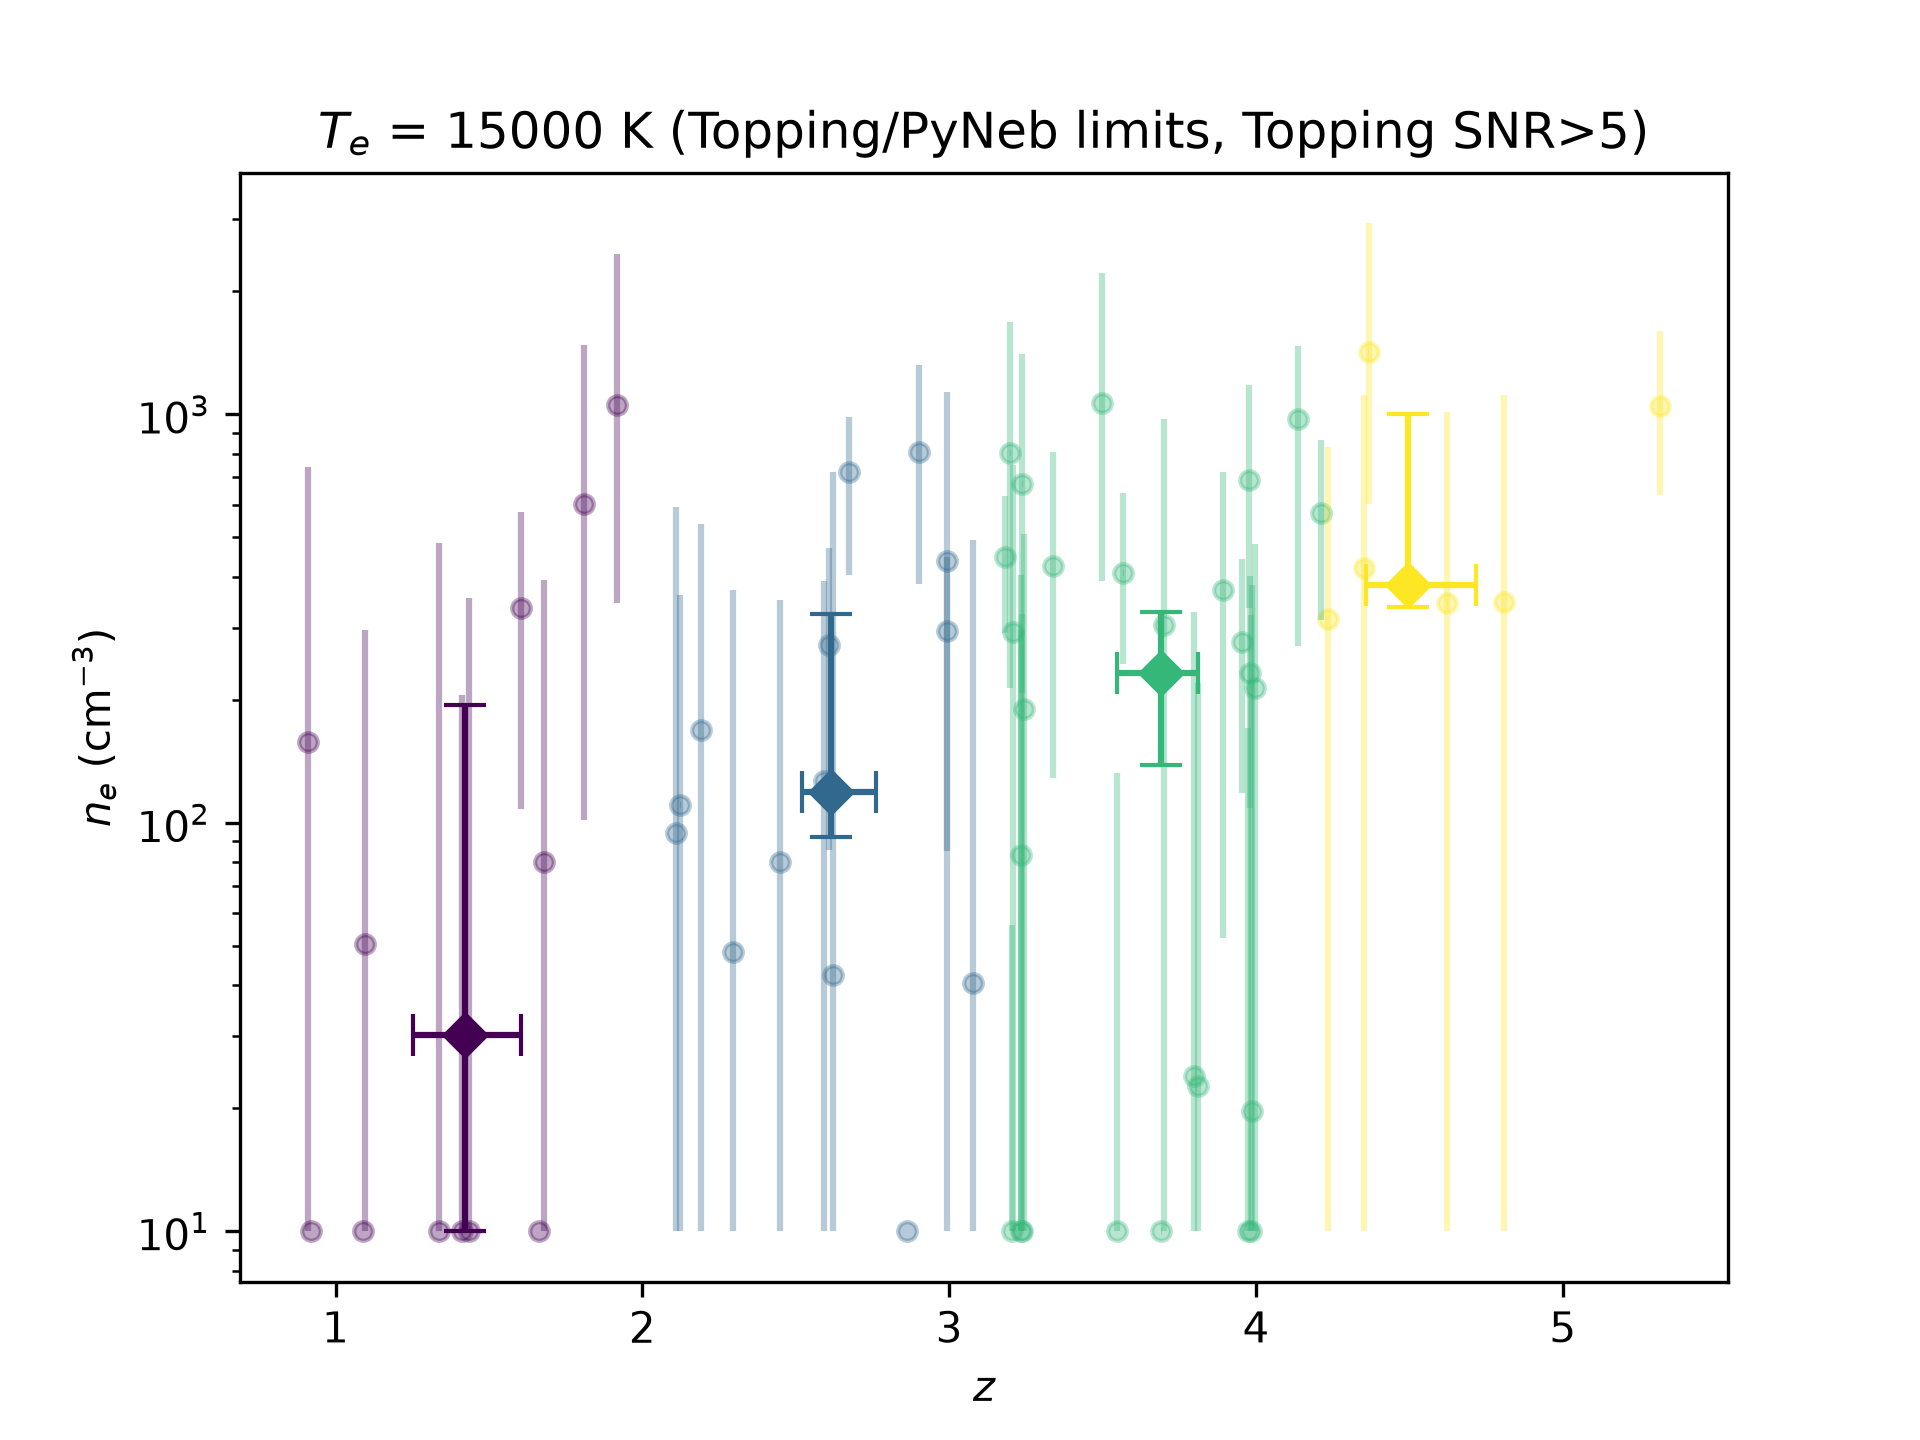
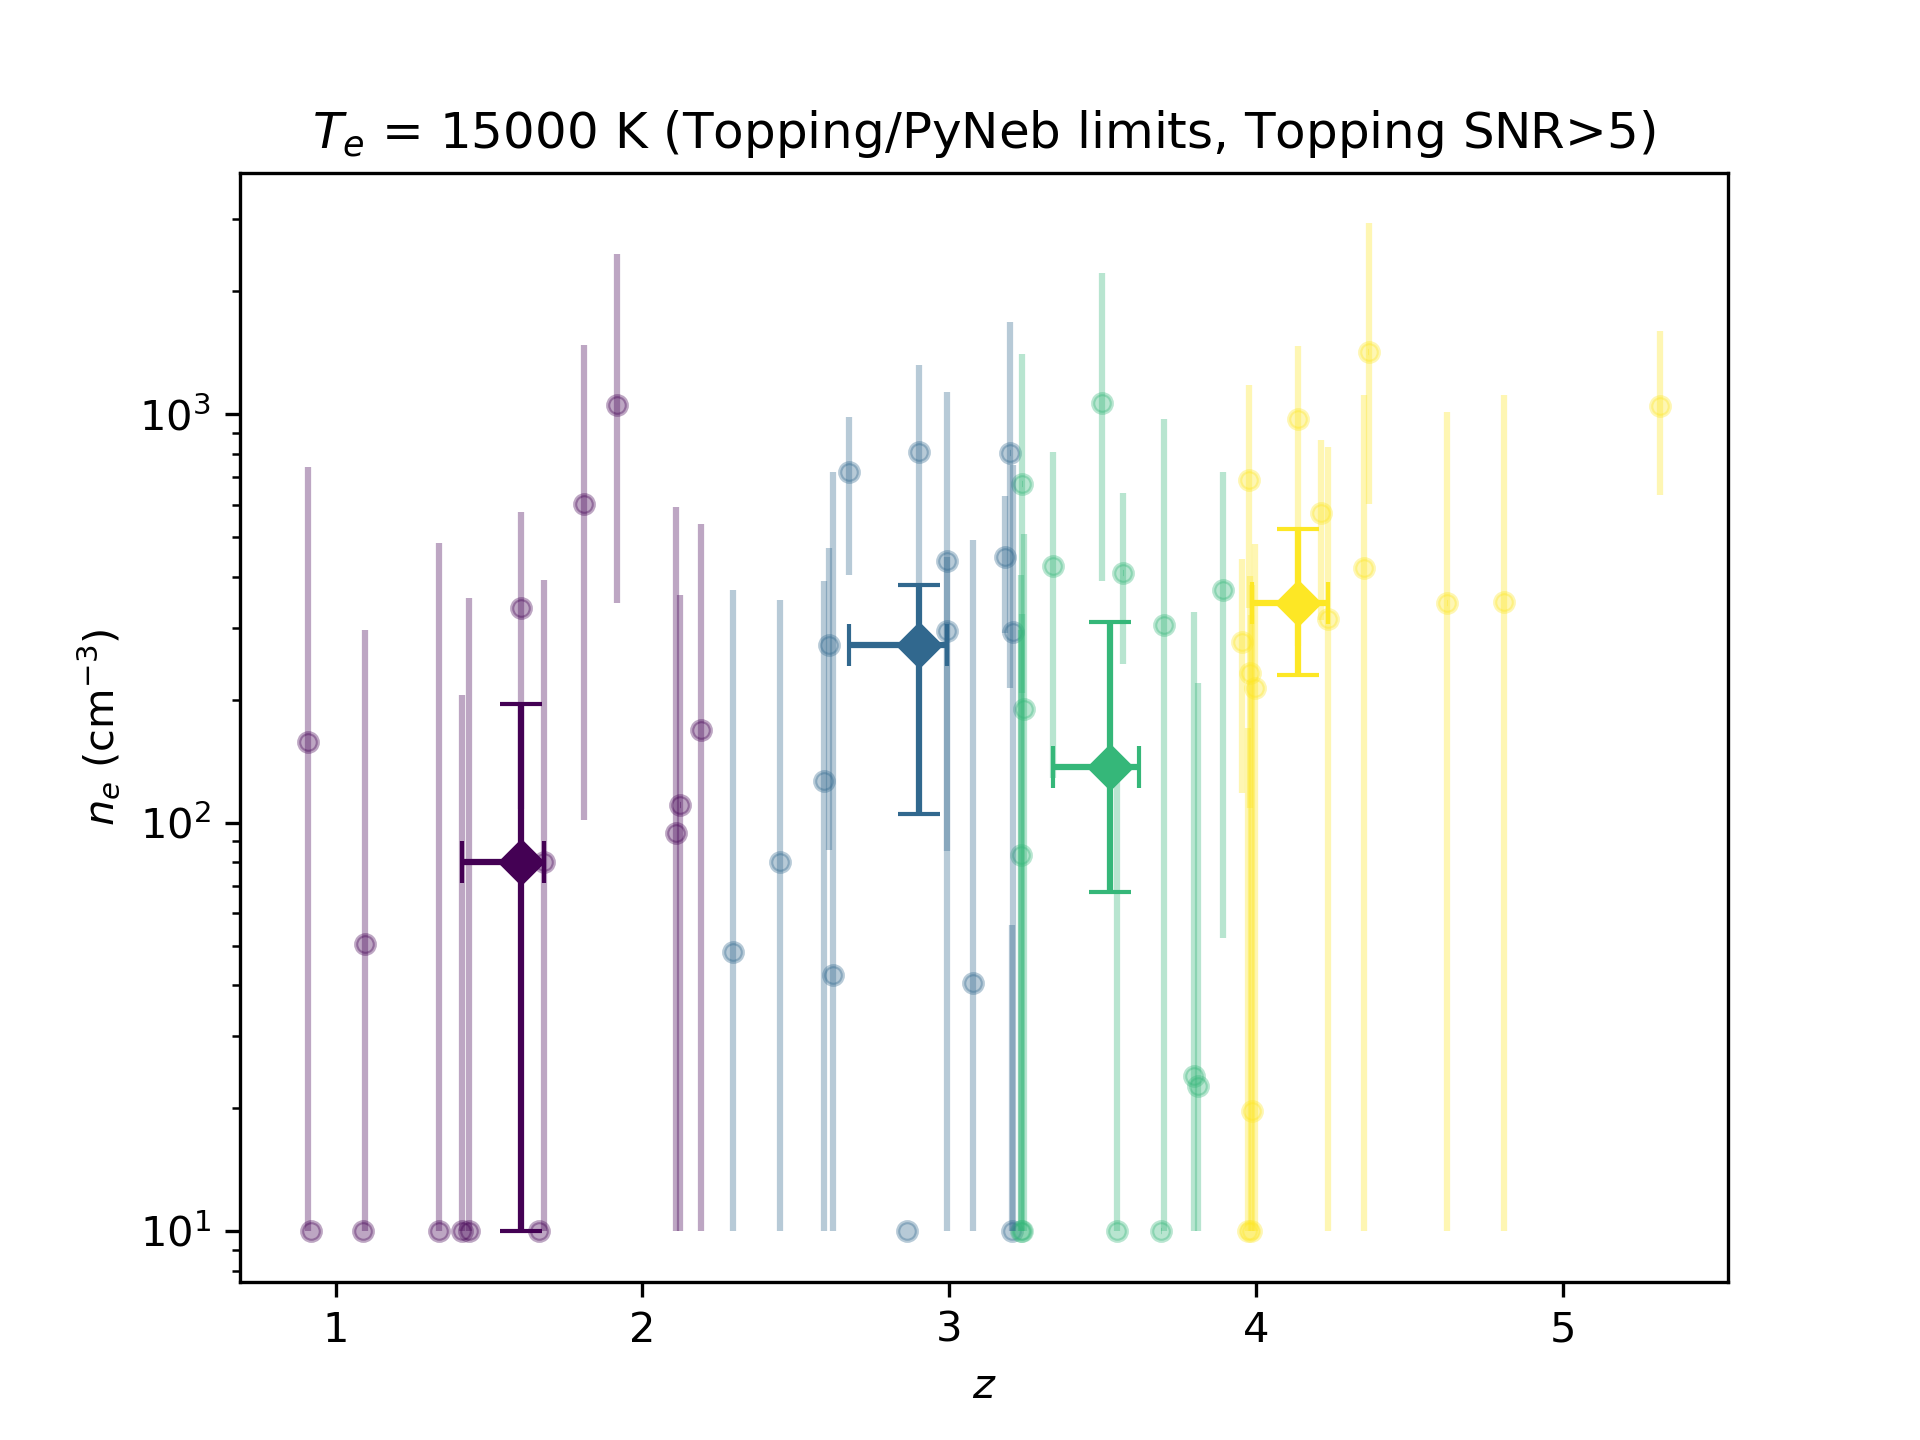
Fixed binning bug

diff --git a/SII_Fitting_and_Densities/databinning.py b/SII_Fitting_and_Densities/databinning.py
@@ -2,19 +2,16 @@ import numpy as np
 import pandas as pd
 from pathlib import Path
 import matplotlib.pyplot as plt
-from scipy.optimize import curve_fit
+from scipy.optimize import least_squares
 
 dir = Path(__file__).resolve().parent
 data = pd.read_csv(dir / "n_e_data_Te_15000.csv")
 
 no_bins = 4
 labels = [f"bin {i + 1}" for i in range(no_bins)]
-data["z_bin"] = pd.cut(data["redshift"], bins = no_bins, labels = labels)
+data["z_bin"] = pd.qcut(data["redshift"], q = no_bins, labels = labels)
 
-for label, subset in data.groupby("z_bin", observed=True):
-    print(label, len(subset))
-
-rng = np.random.default_rng(42)
+rng = np.random.default_rng(1000)
 
 def bootstrap_median(group, column, n_boot=10_000):
     values = group[column].to_numpy(dtype=float)
@@ -62,12 +59,16 @@ n_e_median = summary["n_e_median"].to_numpy()
 n_e_error_lower = summary["n_e_ci16"].to_numpy()
 n_e_error_upper = summary["n_e_ci84"].to_numpy()
 
-#Fit a power laws to the medians
-def power_law(z, a, p):
-    n_e = a * (1 + z) ** p
-    return n_e
+def power_law(params, z, n_e_obs):
+    a, p = params
+    residual = a * (1 + z) ** p - n_e_obs
+    return residual
 
+x_0_powerlaw = np.array([10, 1.5])
+solutions = least_squares(power_law, x_0_powerlaw, args = (z_median, n_e_median))
+a, p = solutions.x
 
+print(f"Powerlaw index is {p:.3f}")
 
 colors = plt.cm.viridis(np.linspace(0, 1, no_bins))
 color_by_bin = dict(zip(labels, colors))
